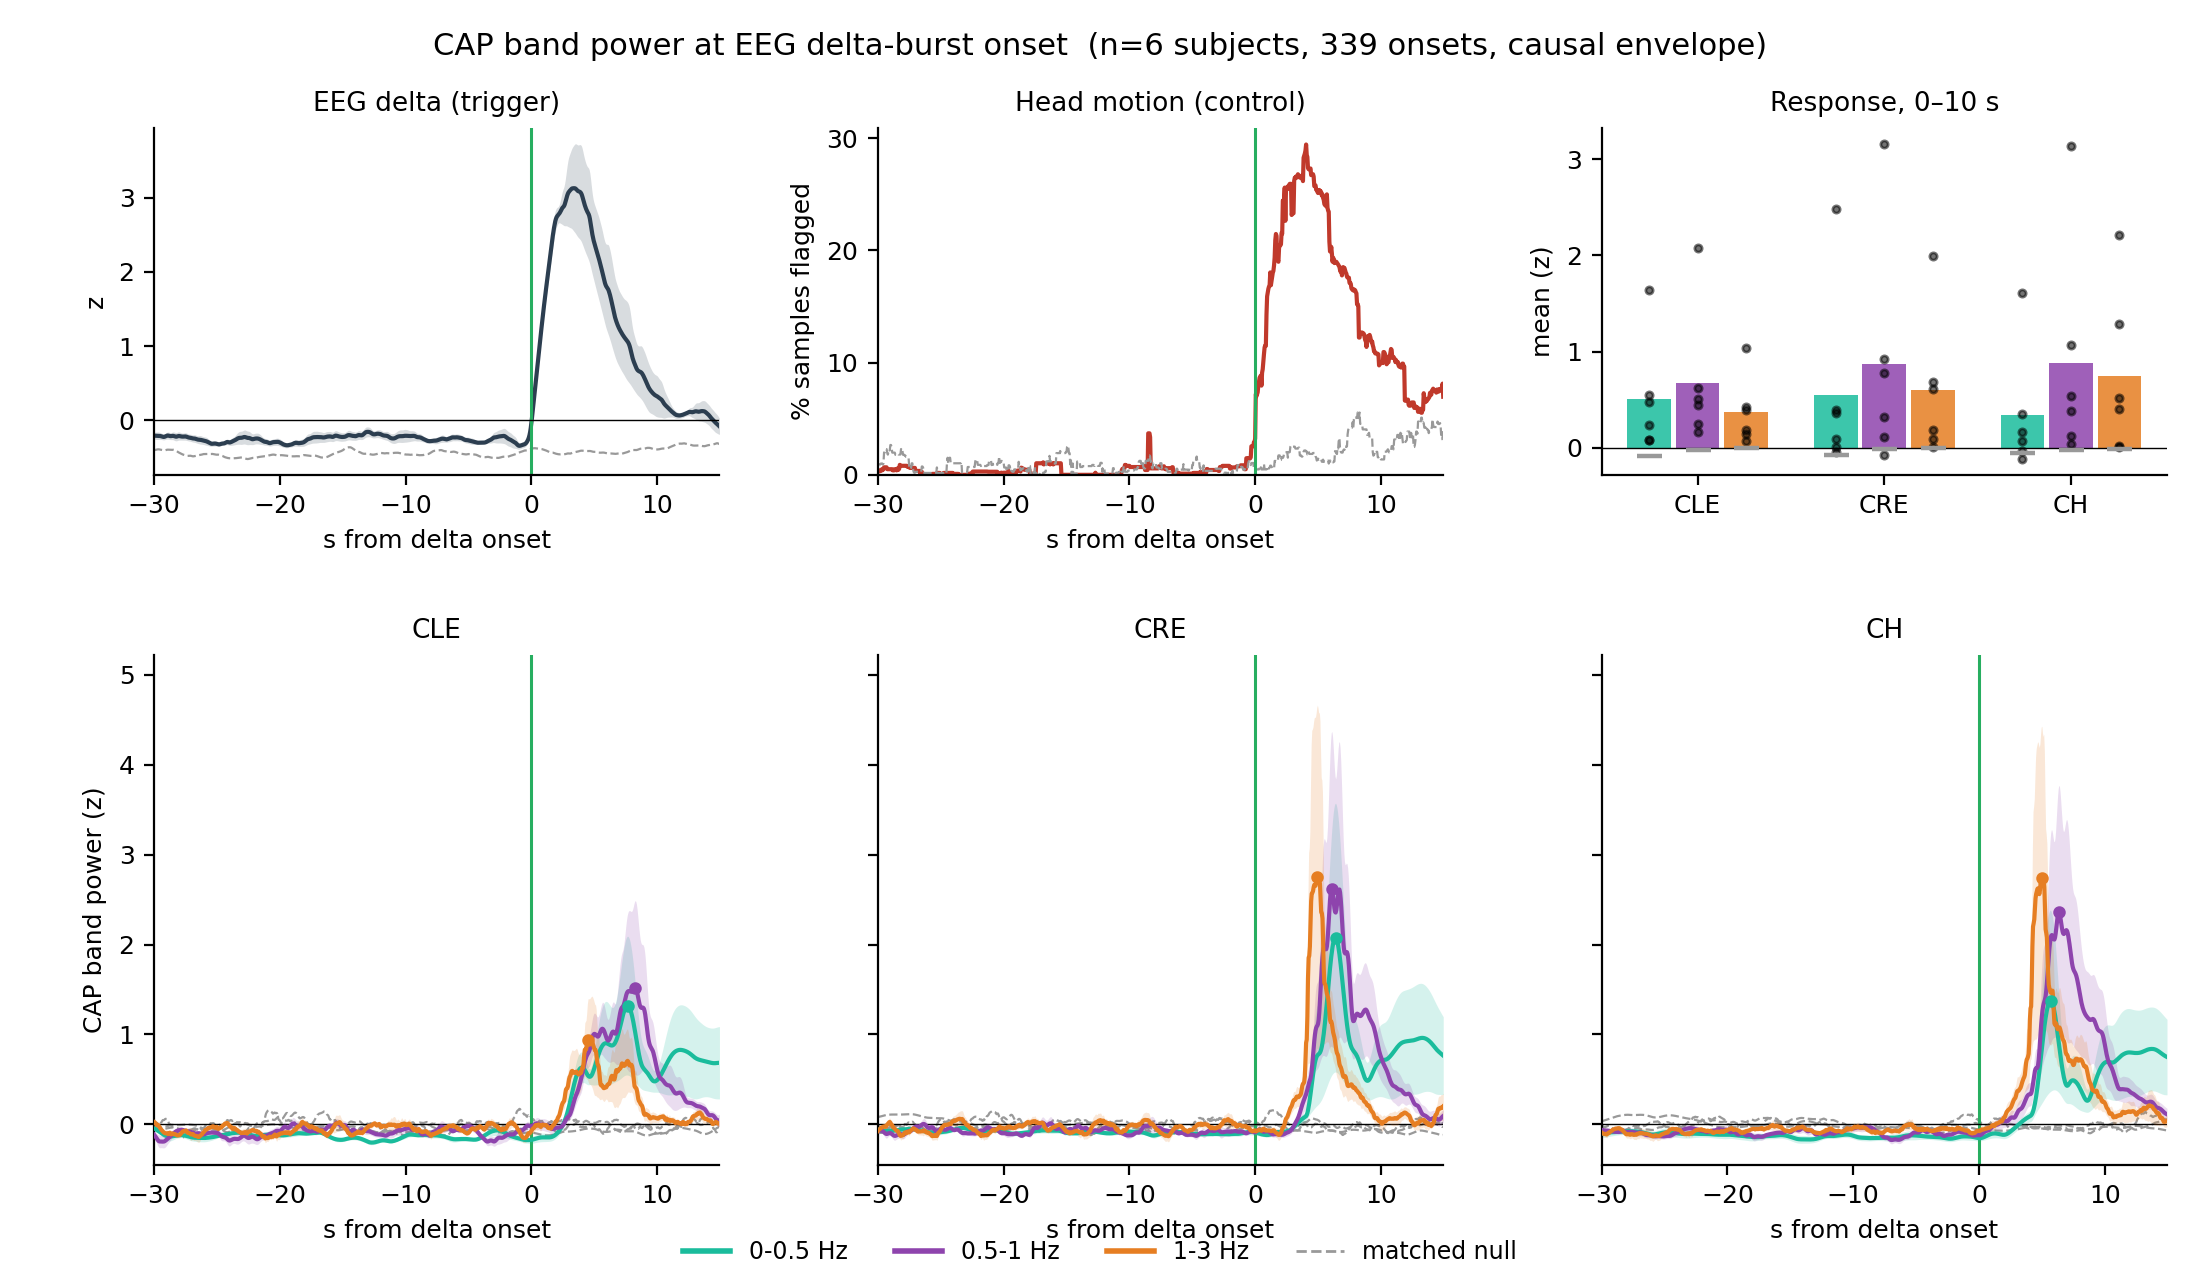
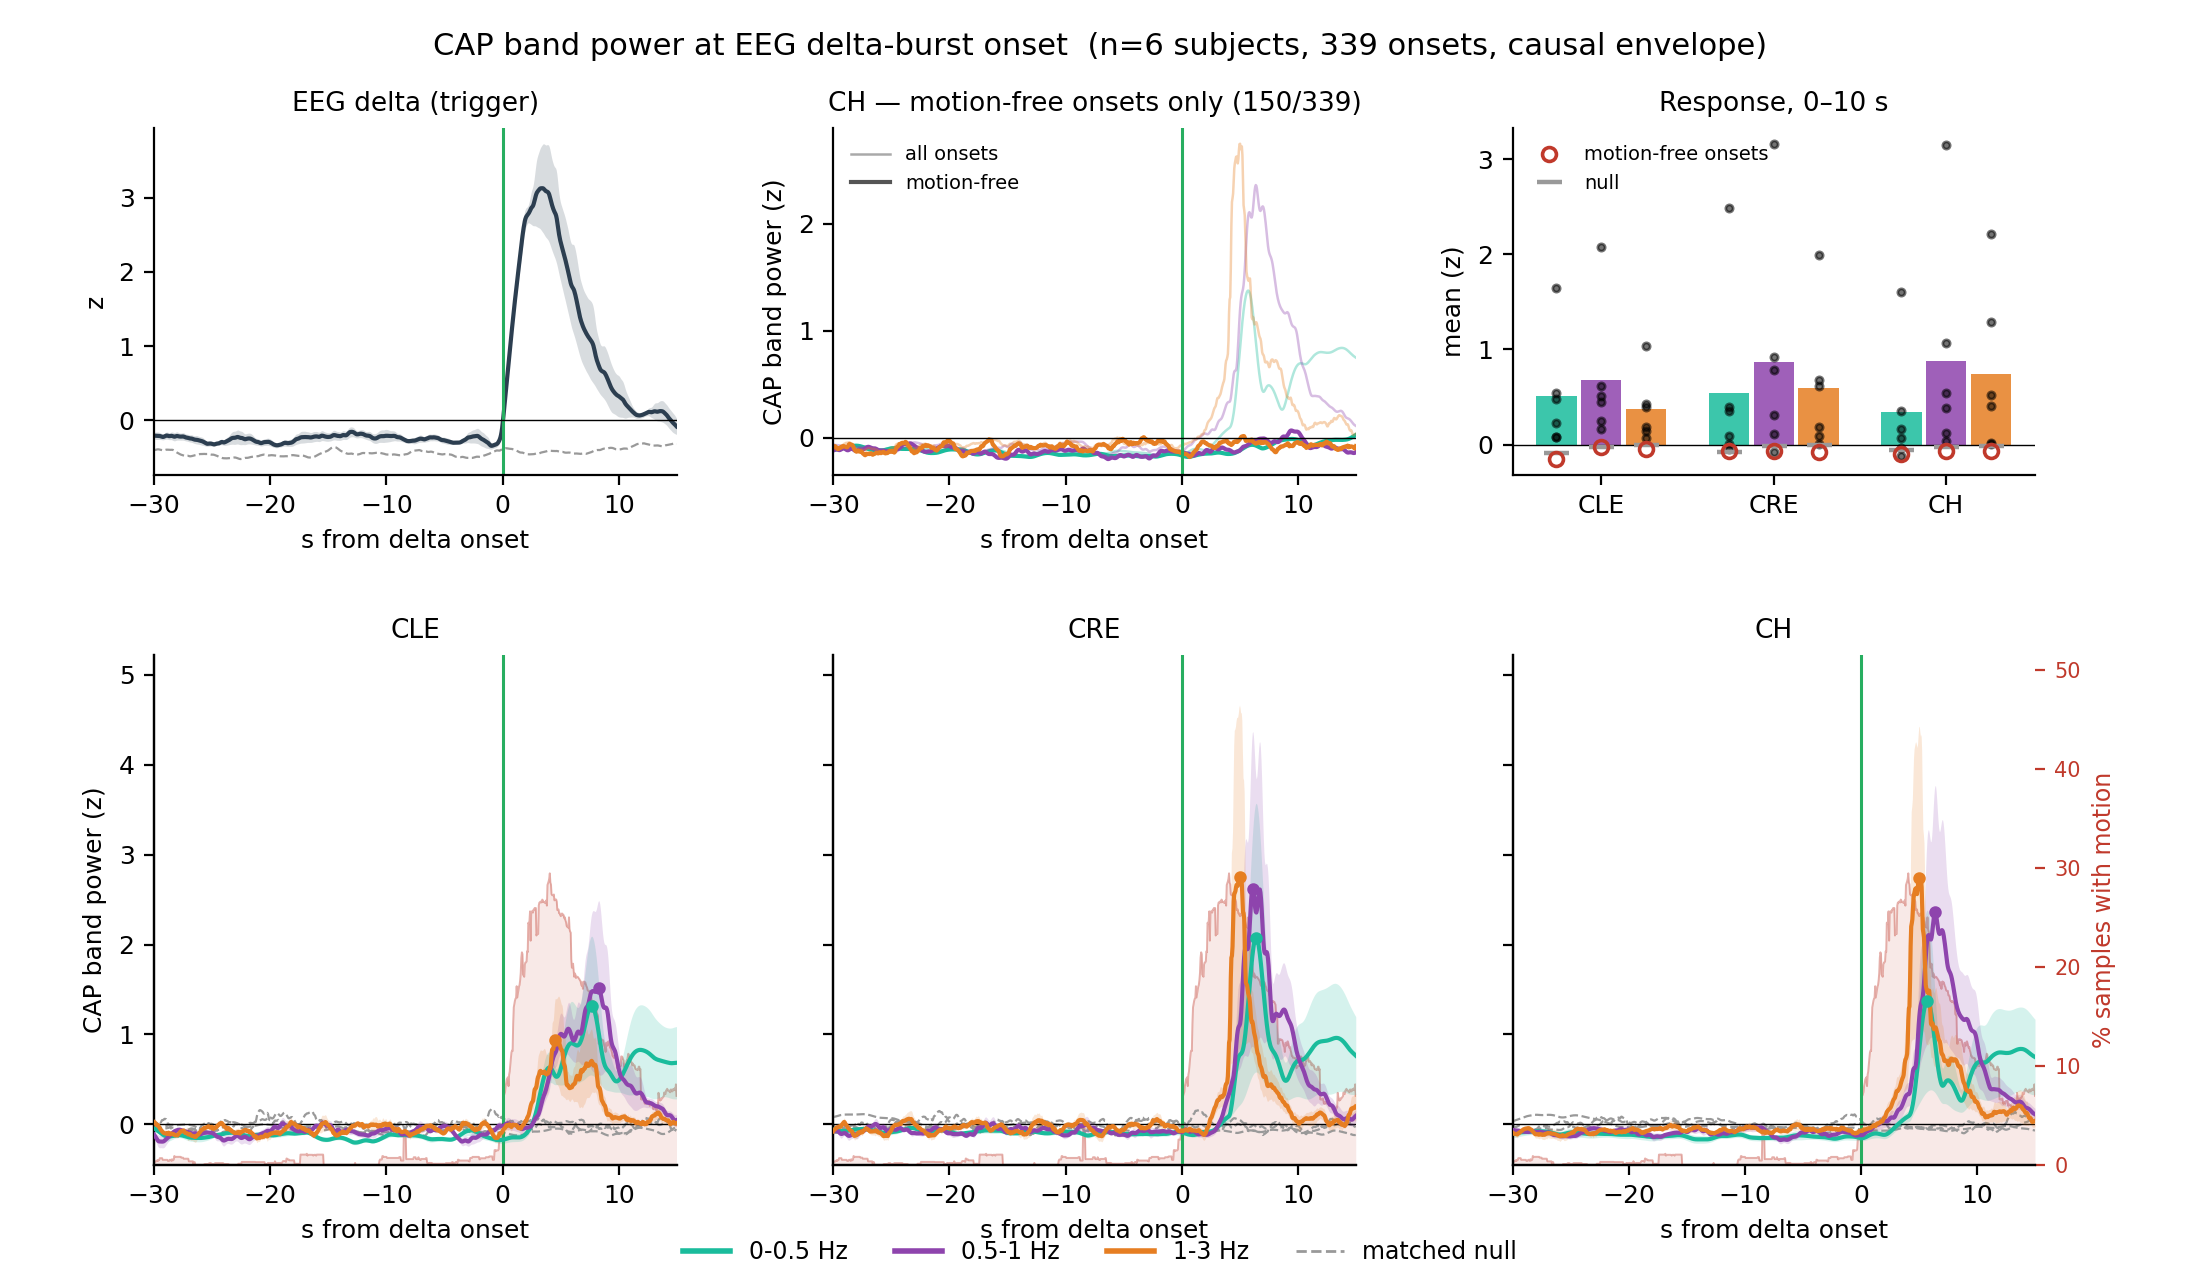
delta_onset figures: draw head motion behind the CAP bands, not in its own panel
Motion in a separate panel can be skipped; motion shaded under the band
curves on the same time axis cannot. Every channel panel in the cohort and
single-night figures now carries the motion profile on a twinned right axis
beneath the traces.

The freed slot carries the consequence instead of repeating the trace:
panel B is now CH with motion-free onsets only (all onsets faint, the 150
motion-free bold and flat), and panel C marks the motion-free amplitude with
an open circle at ~0. The main figure alone now shows the effect, the
confound and the disappearance, so the standalone motion-control figure
drops to supplementary.

diff --git a/analysis/delta_onset/delta_onset_figures.py b/analysis/delta_onset/delta_onset_figures.py
@@ -348,6 +348,28 @@ def per_subject(sessions, key):
 
 
 # ── Small plotting helpers ─────────────────────────────────────────────────────
+def motion_backdrop(ax, tax, motion, mmax, label=False):
+    """Shade the head-motion profile behind a channel's band curves.
+
+    Motion is drawn inside every channel panel rather than in a panel of its own, so the
+    band-power rise cannot be read without also seeing the movement that occupies the same
+    window. Placed on a twinned axis underneath the curves.
+    """
+    ax2 = ax.twinx()
+    ax2.fill_between(tax, 0, motion * 100, color='#C0392B', alpha=0.11, lw=0, zorder=0)
+    ax2.plot(tax, motion * 100, color='#C0392B', lw=0.7, alpha=0.40, zorder=0)
+    ax2.set_ylim(0, mmax * 100 * 1.75)       # keep the backdrop subordinate to the curves
+    ax2.spines['top'].set_visible(False)
+    if label:
+        ax2.set_ylabel('% samples with motion', color='#C0392B', fontsize=8.5)
+        ax2.tick_params(axis='y', colors='#C0392B', labelsize=7.5)
+    else:
+        ax2.set_yticks([])
+    ax.set_zorder(ax2.get_zorder() + 1)      # band curves draw on top of the shading
+    ax.patch.set_visible(False)
+    return ax2
+
+
 def band_panel(ax, tax, curves, nulls=None, sem=None, mark_peak=True, lw=1.5):
     """One channel panel: the three band curves (+ optional SEM band and null)."""
     for bn in BANDS:
@@ -381,8 +403,8 @@ def fig_cohort(sessions, tag, cal):
     ns = len(subj)
 
     fig = plt.figure(figsize=(11.0, 6.4))
-    gs = fig.add_gridspec(2, 3, height_ratios=[0.85, 1.25], hspace=0.42, wspace=0.28,
-                          left=0.07, right=0.985, top=0.90, bottom=0.09)
+    gs = fig.add_gridspec(2, 3, height_ratios=[0.85, 1.25], hspace=0.42, wspace=0.30,
+                          left=0.07, right=0.925, top=0.90, bottom=0.09)
 
     # A — the trigger itself
     ax = fig.add_subplot(gs[0, 0])
@@ -395,40 +417,63 @@ def fig_cohort(sessions, tag, cal):
     ax.set_xlim(tax[0], tax[-1]); ax.set_title('EEG delta (trigger)', fontsize=9.5)
     ax.set_ylabel('z'); ax.set_xlabel('s from delta onset')
 
-    # B — motion control
+    # B — the same measurement with movement excluded (CH, the largest channel).
+    # The motion profile itself is drawn behind every channel panel below, so this slot
+    # carries the consequence rather than repeating the motion trace.
     ax = fig.add_subplot(gs[0, 1])
-    _, R = per_subject(sessions, 'motion_real'); _, N = per_subject(sessions, 'motion_nullm')
-    ax.plot(tax, np.nanmean(R, 0) * 100, color='#C0392B', lw=1.5)
-    ax.plot(tax, np.nanmean(N, 0) * 100, color=NULL_COLOR, ls='--', lw=0.8)
-    ax.axvline(0, color=ONSET_COLOR, lw=1.1)
-    ax.set_xlim(tax[0], tax[-1]); ax.set_ylim(bottom=0)
-    ax.set_title('Head motion (control)', fontsize=9.5)
-    ax.set_ylabel('% samples flagged'); ax.set_xlabel('s from delta onset')
+    clean_s = [s for s in sessions if int(s['n_onsets_clean']) >= MIN_ONSETS]
+    for bn in BANDS:
+        _, R = per_subject(sessions, f'ca_real_CH_{bn}')
+        _, C = per_subject(clean_s, f'ca_realc_CH_{bn}')
+        ax.plot(tax, np.nanmean(R, 0), color=BAND_COLORS[bn], lw=0.9, alpha=0.35)
+        ax.plot(tax, np.nanmean(C, 0), color=BAND_COLORS[bn], lw=1.5)
+    ax.axvline(0, color=ONSET_COLOR, lw=1.1); ax.axhline(0, color='k', lw=0.5)
+    ax.set_xlim(tax[0], tax[-1])
+    ax.set_title(f'CH — motion-free onsets only ({sum(int(s["n_onsets_clean"]) for s in sessions)}'
+                 f'/{sum(int(s["n_onsets"]) for s in sessions)})', fontsize=9.5)
+    ax.set_ylabel('CAP band power (z)'); ax.set_xlabel('s from delta onset')
+    ax.legend(handles=[Line2D([], [], color='#555', lw=0.9, alpha=0.5, label='all onsets'),
+                       Line2D([], [], color='#555', lw=1.5, label='motion-free')],
+              frameon=False, fontsize=7, loc='upper left')
 
     # C — response amplitude. A window MEAN, not a peak: the max of a noisy per-subject
     # curve is biased upward, and the bias is largest for the subjects with fewest
     # onsets, which inflates the null as much as the response.
     ax = fig.add_subplot(gs[0, 2])
     win = (tax >= RESP_WIN[0]) & (tax <= RESP_WIN[1])
+    clean = [s for s in sessions if int(s['n_onsets_clean']) >= MIN_ONSETS]
     width = 0.26
     for bi, bn in enumerate(BANDS):
-        amp, nul = [], []
+        amp, nul, cln = [], [], []
         for ch in CHANNELS:
             _, R = per_subject(sessions, f'ca_real_{ch}_{bn}')
             _, N = per_subject(sessions, f'ca_nullm_{ch}_{bn}')
+            _, C = per_subject(clean, f'ca_realc_{ch}_{bn}')
             amp.append(np.nanmean(R[:, win], axis=1)); nul.append(np.nanmean(N[:, win], axis=1))
+            cln.append(np.nanmean(C[:, win], axis=1))
         x = np.arange(len(CHANNELS)) + (bi - 1) * width
         ax.bar(x, [a.mean() for a in amp], width * 0.9, color=BAND_COLORS[bn], alpha=0.85)
         for xi, a in zip(x, amp):
             ax.plot(np.full(len(a), xi), a, 'o', ms=2.6, color='k', alpha=0.55, zorder=3)
         ax.plot(x, [n.mean() for n in nul], '_', ms=9, color=NULL_COLOR, mew=1.6, zorder=4)
+        # motion-free onsets: same measurement, movement excluded
+        ax.plot(x, [c.mean() for c in cln], 'o', ms=5, mfc='none', mec='#C0392B', mew=1.3,
+                zorder=5)
     ax.set_xticks(np.arange(len(CHANNELS))); ax.set_xticklabels(CHANNELS)
     ax.axhline(0, color='k', lw=0.5)
     ax.set_title(f'Response, {RESP_WIN[0]:.0f}–{RESP_WIN[1]:.0f} s', fontsize=9.5)
     ax.set_ylabel('mean (z)')
+    ax.legend(handles=[Line2D([], [], ls='none', marker='o', mfc='none', mec='#C0392B',
+                              mew=1.3, ms=5, label='motion-free onsets'),
+                       Line2D([], [], ls='none', marker='_', color=NULL_COLOR, mew=1.6,
+                              ms=9, label='null')],
+              frameon=False, fontsize=7, loc='upper left')
 
-    # D-F — the response, all bands, per channel (shared y so channel rank is readable)
+    # D-F — the response, all bands, per channel (shared y so channel rank is readable),
+    # with the motion profile shaded behind each panel so the two are read together
     axes = [fig.add_subplot(gs[1, j]) for j in range(3)]
+    _, MO = per_subject(sessions, 'motion_real')
+    mo = np.nanmean(MO, 0)
     lim = 0
     for j, ch in enumerate(CHANNELS):
         cur, nul, sem = {}, {}, {}
@@ -438,6 +483,7 @@ def fig_cohort(sessions, tag, cal):
             cur[bn] = np.nanmean(R, 0); sem[bn] = np.nanstd(R, 0) / np.sqrt(ns)
             nul[bn] = np.nanmean(N, 0)
             lim = max(lim, np.nanmax(cur[bn] + sem[bn]), np.nanmax(nul[bn]))
+        motion_backdrop(axes[j], tax, mo, np.nanmax(mo), label=(j == len(CHANNELS) - 1))
         band_panel(axes[j], tax, cur, nul, sem)
         axes[j].set_title(ch, fontsize=9.5)
         axes[j].set_xlabel('s from delta onset')
@@ -516,7 +562,7 @@ def fig_session(sessions, tag):
     s = next((x for x in sessions if x['label'] == EXEMPLAR), sessions[0])
     tax = s['tax']
     fig, axes = plt.subplots(1, 4, figsize=(12.2, 3.1), sharex=True)
-    fig.subplots_adjust(left=0.055, right=0.99, top=0.80, bottom=0.30, wspace=0.24)
+    fig.subplots_adjust(left=0.055, right=0.925, top=0.80, bottom=0.30, wspace=0.30)
 
     ax = axes[0]
     ax.plot(tax, s['eeg_real'], color='#2C3E50', lw=1.5)
@@ -526,9 +572,11 @@ def fig_session(sessions, tag):
     ax.set_ylabel('z'); ax.set_xlabel('s from delta onset')
 
     lim = 0
+    mo = s['motion_real']
     for j, ch in enumerate(CHANNELS):
         cur = {bn: s[f'ca_real_{ch}_{bn}'] for bn in BANDS}
         nul = {bn: s[f'ca_nullm_{ch}_{bn}'] for bn in BANDS}
+        motion_backdrop(axes[j + 1], tax, mo, np.nanmax(mo), label=(j == len(CHANNELS) - 1))
         band_panel(axes[j + 1], tax, cur, nul)
         lim = max(lim, max(np.nanmax(v) for v in cur.values()),
                   max(np.nanmax(v) for v in nul.values()))

diff --git a/CHANGELOG.md b/CHANGELOG.md
@@ -6,6 +6,7 @@ Records all code changes to library modules, scripts, and notebooks.
 
 ## 2026-08-06
 
+- **Changed** `analysis/delta_onset/delta_onset_figures.py` `fig_cohort`/`fig_session` — the head-motion profile is now shaded behind the band curves inside every channel panel (twinned right axis, % samples flagged) instead of living in a panel of its own, so the band-power rise cannot be read without the movement that occupies the same window. Freed panel B now carries the motion-free subset for CH (all onsets faint, motion-free bold) and panel C gains an open marker for the motion-free amplitude, so the main figure alone shows the effect, its confound and its disappearance; `fig_delta_onset_motion_control.png` drops to supplementary. New `motion_backdrop()` helper; backdrop scaled to ~60 % of panel height and drawn under the curves via a zorder swap so it stays subordinate.
 - **Added** `analysis/delta_onset/delta_onset_figures.py` — the paper figure set for the delta-onset result, replacing the ad-hoc figures in `delta_cap_precursor.py` / `lowband_precursor_check.py`. Five figures (`fig_delta_onset_{cohort,motion_control,session,subjects,age}.png`) and three CSVs into `writeup/figures/delta_onset/`; per-session peri-onset matrices cached under `TEMP/delta_onset_figs` so figure iteration does not reload the recordings. All three bands are drawn together per channel rather than one band per panel, which is what makes the common latency and common shape of the "response" visible at a glance — and, once the motion control below is added, what makes it obvious that the three bands are one broadband event.
 - **Fixed** the causal envelope estimator — `sosfilt` started from zero state while the CAP channels sit at ~2000 fF, so the filter's step response rang for minutes at these corner frequencies (settling ~1/0.03 Hz for the slow band). Consequences: any analysis window early in the recording was garbage, and the NREM standard deviation that every trace is z-scored by was inflated by the transient. Now initialised with `sosfilt_zi(sos) * sig[0]`, plus a 120 s warm-up excluded from the z-score reference and from null-centre selection. Verified on S2N2 CH: first-60 s envelope max drops to 8.7 against a night median of 1.84. **`analysis/delta_onset/lowband_precursor_check.py` still carries this bug**, and it produced the current manuscript Figure 9.
 - **Added** timing-bias calibration (`calibrate_timing`) — measures each estimator's bias on a synthetic burst that truly starts at t=0. The causal estimator reports events **+1.90 / +2.35 / +0.76 s** late (0-0.5 / 0.5-1 / 1-3 Hz); the detector's zero-phase trigger fires **−0.88 s** early; total latency correction **1.6-3.2 s**. Both biases push the measured event later, never earlier, so the no-precursor conclusion is unaffected, but every latency previously reported is an upper bound. The zero-phase 50 %-rise bias measures ≈0 as expected — its backward leak lives in the low-amplitude leading edge, not at the 50 % point.

diff --git a/writeup/figures/delta_onset/README.md b/writeup/figures/delta_onset/README.md
@@ -37,9 +37,9 @@ withdrawn, because it predicts a response on movement-free onsets.
 
 | File | What it shows |
 |------|----------------|
-| `fig_delta_onset_cohort.png` | The main view: EEG trigger, motion control, response amplitude, and all three bands × three channels, mean ± SEM across subjects vs matched null (n = 6, 339 onsets). |
-| `fig_delta_onset_motion_control.png` | **The decisive panel.** Faint = all 339 onsets, bold = the 150 motion-clean ones. Bold is flat at zero in every channel and band. |
-| `fig_delta_onset_session.png` | The same view inside one night (S2N2, 80 onsets). |
+| `fig_delta_onset_cohort.png` | **Figure 9 candidate — self-contained.** (A) EEG delta trigger. (B) CH with motion-free onsets only, faint = all 339, bold = the 150 motion-free. (C) response amplitude per channel × band, with open red circles marking the motion-free value (≈ 0). (D–F) all three bands per channel, mean ± SEM vs matched null, **with the head-motion profile shaded behind the curves on the right axis** so the band-power rise and the movement that occupies the same window are read together, not in separate panels. |
+| `fig_delta_onset_motion_control.png` | The full three-channel version of panel B — all bands, all channels, all onsets vs motion-free. Supplementary; panel B carries the point in the main figure. |
+| `fig_delta_onset_session.png` | The same view inside one night (S2N2, 80 onsets), motion likewise shaded behind each channel. |
 | `fig_delta_onset_subjects.png` | Per subject × channel, all bands. Per-panel y-scale with the peak printed — a shared scale is unreadable because S5 (6 onsets, quietest night) peaks 5–13 z against 1–3 z elsewhere. |
 | `fig_delta_onset_age.png` | Response amplitude and half-rise latency vs subject age (n = 6, exploratory). |
 | `delta_onset_response_summary.csv` | Per channel × band: response amplitude vs both nulls and vs the motion-clean null, latencies raw and bias-corrected, per-subject direction counts. |

diff --git a/writeup/edits/delta_onset_section_draft.md b/writeup/edits/delta_onset_section_draft.md
@@ -213,11 +213,16 @@ through the movement.
       0–10 s window mean, cross-subject scale changed to median/MAD, null selection-matched
       on EEG-delta quiescence.
 - [x] Results / Methods / Limitations text above rewritten for the new framing.
+- [x] **Motion is reported alongside the bands, inside the figure.** `fig_delta_onset_cohort.png`
+      now shades the head-motion profile behind the band curves in every channel panel (right
+      axis, % samples with motion) and devotes panel B to the motion-free subset and panel C to
+      its amplitude. The effect and its confound cannot be looked at separately. One figure
+      therefore carries the whole result; `fig_delta_onset_motion_control.png` becomes
+      supplementary rather than required.
 - [ ] **Docx not touched.** §4.5 still carries the old mechanism paragraphs and the old
-      Figure 9. Replace the prose with the Results text above; replace Figure 9 with
-      `fig_delta_onset_cohort.png` and add `fig_delta_onset_motion_control.png` as Figure 9b
-      (or as a supplementary figure — but the motion panel must appear somewhere the reader
-      meets it alongside the effect, not only in a limitations sentence).
+      Figure 9. Replace the prose with the Results text above and Figure 9 with
+      `fig_delta_onset_cohort.png`. Caption must name the motion shading explicitly — the
+      figure only protects the reader if the caption says what the red backdrop is.
 - [ ] Decide where the age observation goes, if anywhere: no amplitude–age relation on the
       robust scale; half-rise latency rises with age (CH 0–0.5 Hz rho = +0.94, p = 0.005,
       8/9 combinations positive), but given the above that is movement timing, and it is
